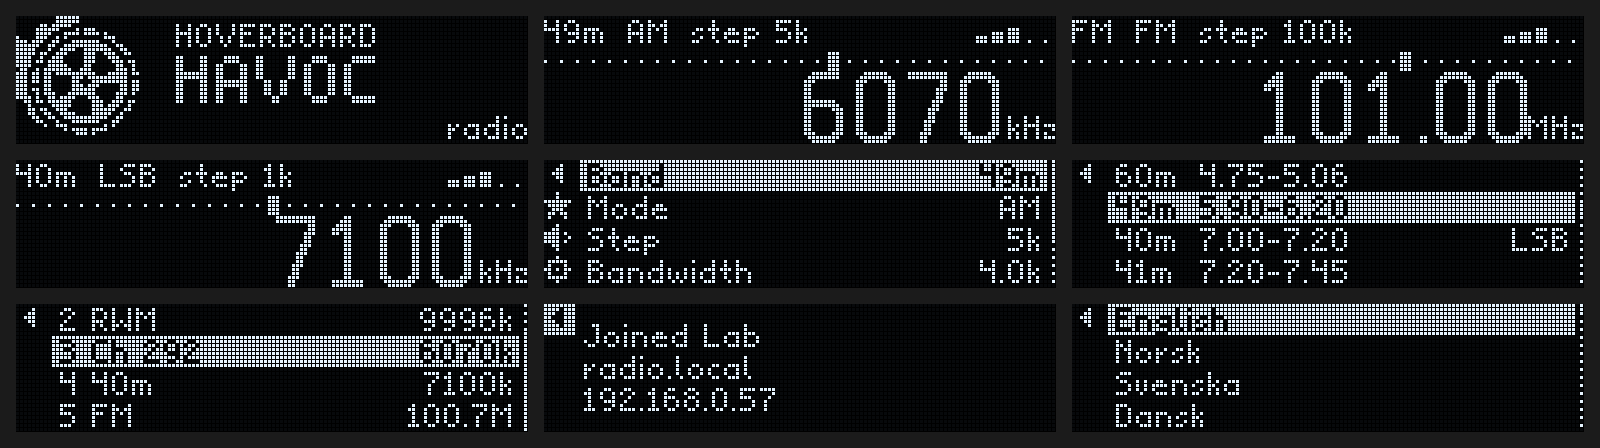
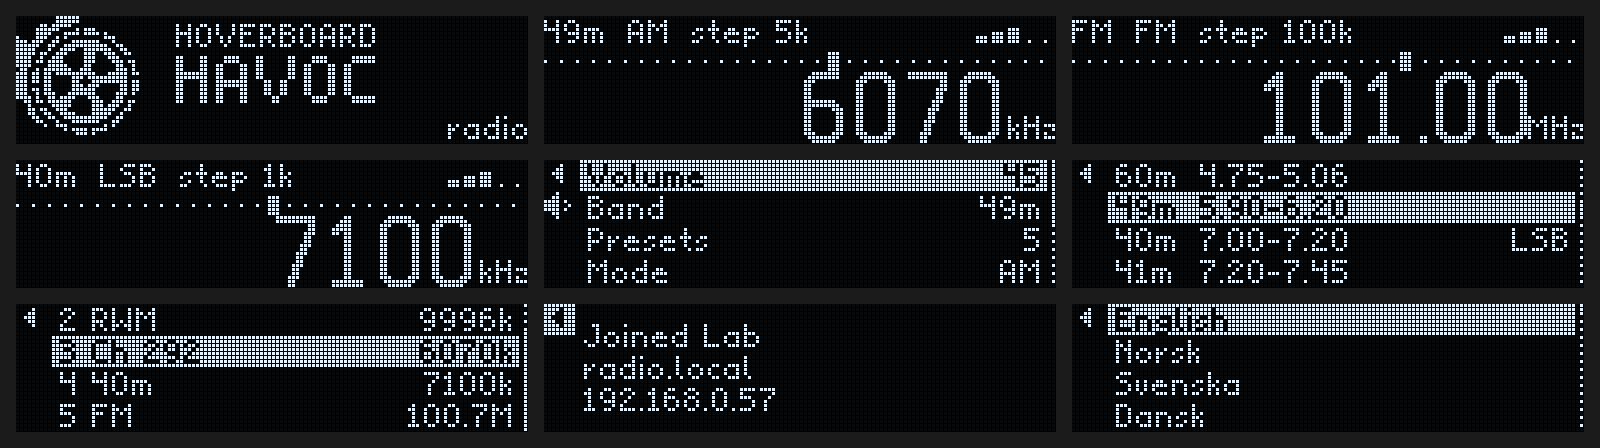
Docs: the main menu with Volume first, Presets and Settings in the list, Back and Mute in the left column

diff --git a/docs/user-guide.md b/docs/user-guide.md
@@ -139,24 +139,36 @@ During a seek the top row shows the band and `Seek ▶` (up) or `Seek ◀` (down
 
 ## The main menu
 
-Press the wheel on the home screen to open the main menu.
+Press the wheel on the home screen to open the main menu. It opens with Volume selected, so a second press opens the
+volume screen.
 
-![The main menu: Band 49m, Mode AM, Step 5k, Bandwidth 4.0k, with icons at the left](images/guide/menu_main.png)
+![The main menu: Volume 45 (selected), Band 49m, Presets 5, Mode AM, with Back and the speaker at the left](images/guide/menu_main.png)
 
 The screen shows four rows at a time. The selected row is inverted. The current value of each entry is at the right.
-A dotted bar at the right edge shows that the list holds more entries than fit. The main menu holds Band, Mode, Step,
-Bandwidth, Volume and Seek. On FM it also holds Station, after Seek.
+A dotted bar at the right edge shows that the list holds more entries than fit. The main menu holds, in order:
 
-The narrow column at the left edge holds icons that can be selected:
+| Entry | Value shown | Press it to |
+|---|---|---|
+| Volume | the volume from 0 to 63, or `mute` | set the volume. See [Volume](#volume). |
+| Band | the band, for example `49m`, or `SW` outside a named band | choose a band. See [Band](#band). |
+| Presets | the number of saved presets | open the preset list. See [Presets](#presets). |
+| Mode | `AM`, `LSB`, `USB` or `FM` | choose the mode. See [Mode](#mode). |
+| Step | the tuning step | choose the step. See [Step](#step). |
+| Bandwidth | the filter bandwidth | choose the bandwidth. See [Bandwidth](#bandwidth). |
+| Seek | none | search for a station. See [Seek](#seek). |
+| Station | none | show the station's RDS. Only on FM. See [Station (RDS)](#station-rds). |
+| Settings | none | open Settings. See [Settings](#settings). |
+
+![The end of the main menu: Step, Bandwidth, Seek and Settings (selected)](images/guide/menu_main_settings.png)
+
+The narrow column at the left edge holds two controls that can be selected:
 
 | Icon | Name | Press it to |
 |---|---|---|
 | `◀` | Back | return to the previous screen. On the main menu it returns to the home screen. |
-| star | Presets | open the preset list. See [Presets](#presets). |
 | speaker | Mute | mute or unmute. The menu stays open. The speaker is crossed out while muted. |
-| gear | Settings | open Settings. See [Settings](#settings). |
 
-![The Presets icon selected in the left column](images/guide/menu_main_presets.png)
+![Mute selected in the left column, below Back](images/guide/menu_main_mute.png)
 
 ![Muted from the menu: the crossed-out speaker; Volume reads mute](images/guide/menu_main_muted.png)
 
@@ -166,13 +178,24 @@ These rules hold in every list.
 
 - The selection travels round the screen in one loop. Turning clockwise moves down the entries. After the last entry
   the selection moves to the lowest icon in the left column, then up the column to Back, then to the first entry.
-  Turning anticlockwise goes the other way, so one click up from the first entry selects Back.
+  Turning anticlockwise goes the other way, so one click up from the first entry selects Back. On the main menu the
+  loop runs from Settings to Mute, then Back, then Volume.
 - Hold + turn jumps four entries. It stops at the first and the last entry.
 - A list opens with the current value selected.
 - Choosing a band, mode, preset, step or bandwidth returns to the home screen.
 - A long press returns to the home screen from any menu.
 - After 8 s without input the K-Radio returns to the home screen. Text entry, the Station screen and the firmware
   update screen do not time out.
+
+### Volume
+
+![The volume screen: Volume, a bar, 45/63](images/guide/volume.png)
+
+The volume screen shows a bar and the value out of 63. Turn the wheel to change the volume; it changes as the wheel
+turns. Press the wheel to return to the home screen. A change of volume turns mute off. While the K-Radio is muted,
+the main menu shows `mute` as the volume.
+
+Hold + turn on the home screen sets the volume without opening the menu.
 
 ### Band
 
@@ -235,16 +258,6 @@ own bandwidth.
 | AM | `1.0k`, `1.8k`, `2.0k`, `2.5k`, `3.0k`, `4.0k`, `6.0k` |
 | LSB, USB | `0.5k`, `1.0k`, `1.2k`, `2.2k`, `3.0k`, `4.0k` |
 
-### Volume
-
-![The volume screen: Volume, a bar, 45/63](images/guide/volume.png)
-
-The volume screen shows a bar and the value out of 63. Turn the wheel to change the volume; it changes as the wheel
-turns. Press the wheel to return to the home screen. A change of volume turns mute off. While the K-Radio is muted,
-the main menu shows `mute` as the volume.
-
-Hold + turn on the home screen sets the volume without opening the menu.
-
 ### Seek
 
 ![The seek list: Seek up, Seek down](images/guide/seek_list.png)
@@ -265,7 +278,7 @@ programme on its own because of RDS.
 
 Open the main menu on FM, select `Station` and press.
 
-![The main menu on FM: Bandwidth, Volume, Seek and Station (selected)](images/guide/rds_menu_station.png)
+![The main menu on FM: Step, Bandwidth, Seek and Station (selected)](images/guide/rds_menu_station.png)
 
 The top row shows the station's name at the left and the programme type at the right, for example `News`, `Pop
 music` or `Weather`. The rows below show the RadioText, broken into lines at the spaces. When the text needs more than
@@ -295,7 +308,8 @@ shows `Presets full` and saves nothing.
 
 ### Choosing a preset
 
-Open the main menu, select the star in the left column and press.
+Open the main menu, select `Presets` and press. The main menu shows the number of saved presets at the right. With no
+presets saved the list is empty and opens with Back selected.
 
 ![The preset list: 2 RWM 9996k, 3 Ch 292 6070k (selected), 4 40m 7100k, 5 FM 100.7M](images/guide/presets.png)
 
@@ -318,7 +332,8 @@ also save the current frequency under a name of choice.
 
 ## Settings
 
-Open the main menu, select the gear in the left column and press.
+Open the main menu, select `Settings`, its last entry, and press. From Volume, three clicks anticlockwise, past Back
+and Mute, select it.
 
 ![Settings, first part: WiFi Lab, AGC on, Contrast 15, Light off](images/guide/settings.png)
 
@@ -449,7 +464,7 @@ Cymraeg and Esperanto.
 Choosing a language changes the K-Radio and the web page at once. The K-Radio returns to Settings. Units, band names
 and mode names read the same in every language. Some translations use short forms to fit the screen.
 
-![The main menu in Czech: Pásmo, Režim, Krok, Šířka pásma](images/guide/lang_home_menu.png)
+![The main menu in Czech: Hlasitost ztlumit (selected), Pásmo, Předvolby, Režim](images/guide/lang_home_menu.png)
 
 ### About
 
